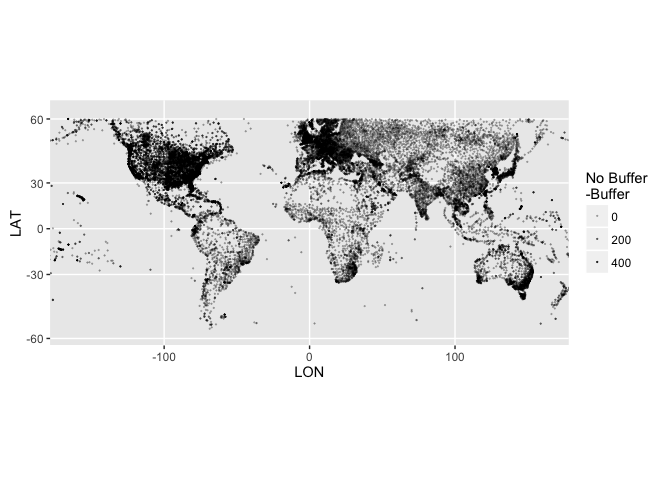
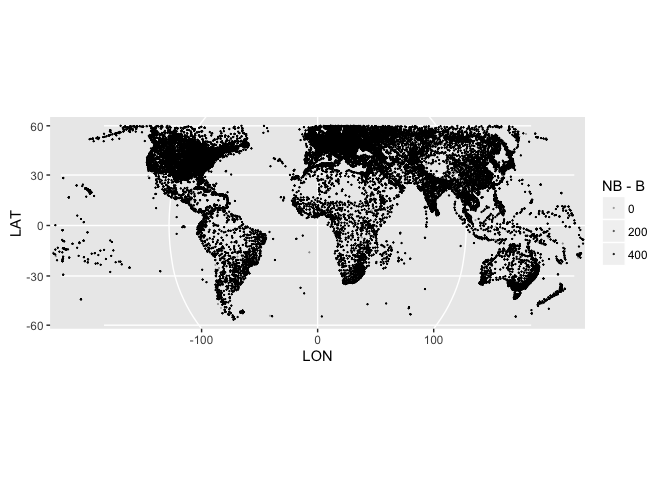
Use Robinson projection for map, clean up map code

diff --git a/data-raw/fetch_isd-history.md b/data-raw/fetch_isd-history.md
@@ -202,14 +202,19 @@ ggplot(data = stations, aes(x = ELEV.M, y = ELEV.M.SRTM.90m.BUFFER)) +
 ![GSOD Reported Elevation versus CGIAR-CSI SRTM Buffered Elevation](fetch_isd-history_files/figure-markdown_github/Buffered%20SRTM%2090m%20vs%20Reported%20Elevation-1.png)
 
 ``` r
+stations <- dplyr::mutate(stations, DIFFERENCE =
+                            ELEV.M.SRTM.90m.NO_BUFFER - ELEV.M.SRTM.90m.BUFFER)
+stations$DIFFERENCE[stations$DIFFERENCE >= -10 & stations$DIFFERENCE <= 10] <- NA
+
 ggplot(data = stations, aes(x = LON, y = LAT)) +
-  geom_point(aes(alpha = (ELEV.M.SRTM.90m.NO_BUFFER - ELEV.M.SRTM.90m.BUFFER)),
-             size = 0.08) +
-  labs(alpha = "No Buffer\n-Buffer") +
-  coord_map()
+  geom_point(aes(alpha = (DIFFERENCE)), size = 0.08) +
+  labs(alpha = "NB - B") +
+  coord_proj()
 ```
 
 ![CGIAR-CSI SRTM Buffered Elevation versus CGIAR-CSI SRTM 90m](fetch_isd-history_files/figure-markdown_github/SRTM%2090m%20vs%20Buffered%20SRTM%2090m-1.png)
+
+Assuming that a 10m difference in elevation between the buffered and unbuffered is not important. Setting any values with a difference of &gt;= -10 and &lt;=10 to `NA`; the results are still not geographically clustered in any one location or feature.
 
 ``` r
 ggplot(data = stations) +
@@ -247,15 +252,21 @@ R System Information
     ## [1] stats     graphics  grDevices utils     datasets  methods   base     
     ## 
     ## other attached packages:
-    ## [1] ggplot2_2.1.0
+    ## [1] ggalt_0.1.1   ggplot2_2.1.0
     ## 
     ## loaded via a namespace (and not attached):
-    ##  [1] Rcpp_0.12.5      withr_1.0.1      digest_0.6.9     plyr_1.8.3      
-    ##  [5] grid_3.3.0       gtable_0.2.0     formatR_1.4      magrittr_1.5    
-    ##  [9] evaluate_0.9     scales_0.4.0     stringi_1.1.1    mapproj_1.2-4   
-    ## [13] rmarkdown_0.9.6  devtools_1.11.1  labeling_0.3     tools_3.3.0     
-    ## [17] stringr_1.0.0    munsell_0.4.3    maps_3.1.0       yaml_2.1.13     
-    ## [21] colorspace_1.2-6 memoise_1.0.0    htmltools_0.3.5  knitr_1.13
+    ##  [1] Rcpp_0.12.5        knitr_1.13         magrittr_1.5      
+    ##  [4] devtools_1.11.1    maps_3.1.0         MASS_7.3-45       
+    ##  [7] munsell_0.4.3      colorspace_1.2-6   R6_2.1.2          
+    ## [10] stringr_1.0.0      plyr_1.8.3         dplyr_0.4.3       
+    ## [13] tools_3.3.0        parallel_3.3.0     grid_3.3.0        
+    ## [16] gtable_0.2.0       ash_1.0-15         KernSmooth_2.23-15
+    ## [19] DBI_0.4-1          withr_1.0.1        htmltools_0.3.5   
+    ## [22] lazyeval_0.1.10    assertthat_0.1     yaml_2.1.13       
+    ## [25] digest_0.6.9       proj4_1.0-8        RColorBrewer_1.1-2
+    ## [28] formatR_1.4        memoise_1.0.0      evaluate_0.9      
+    ## [31] rmarkdown_0.9.6    labeling_0.3       stringi_1.1.1     
+    ## [34] scales_0.4.0
 
 References
 ==========
